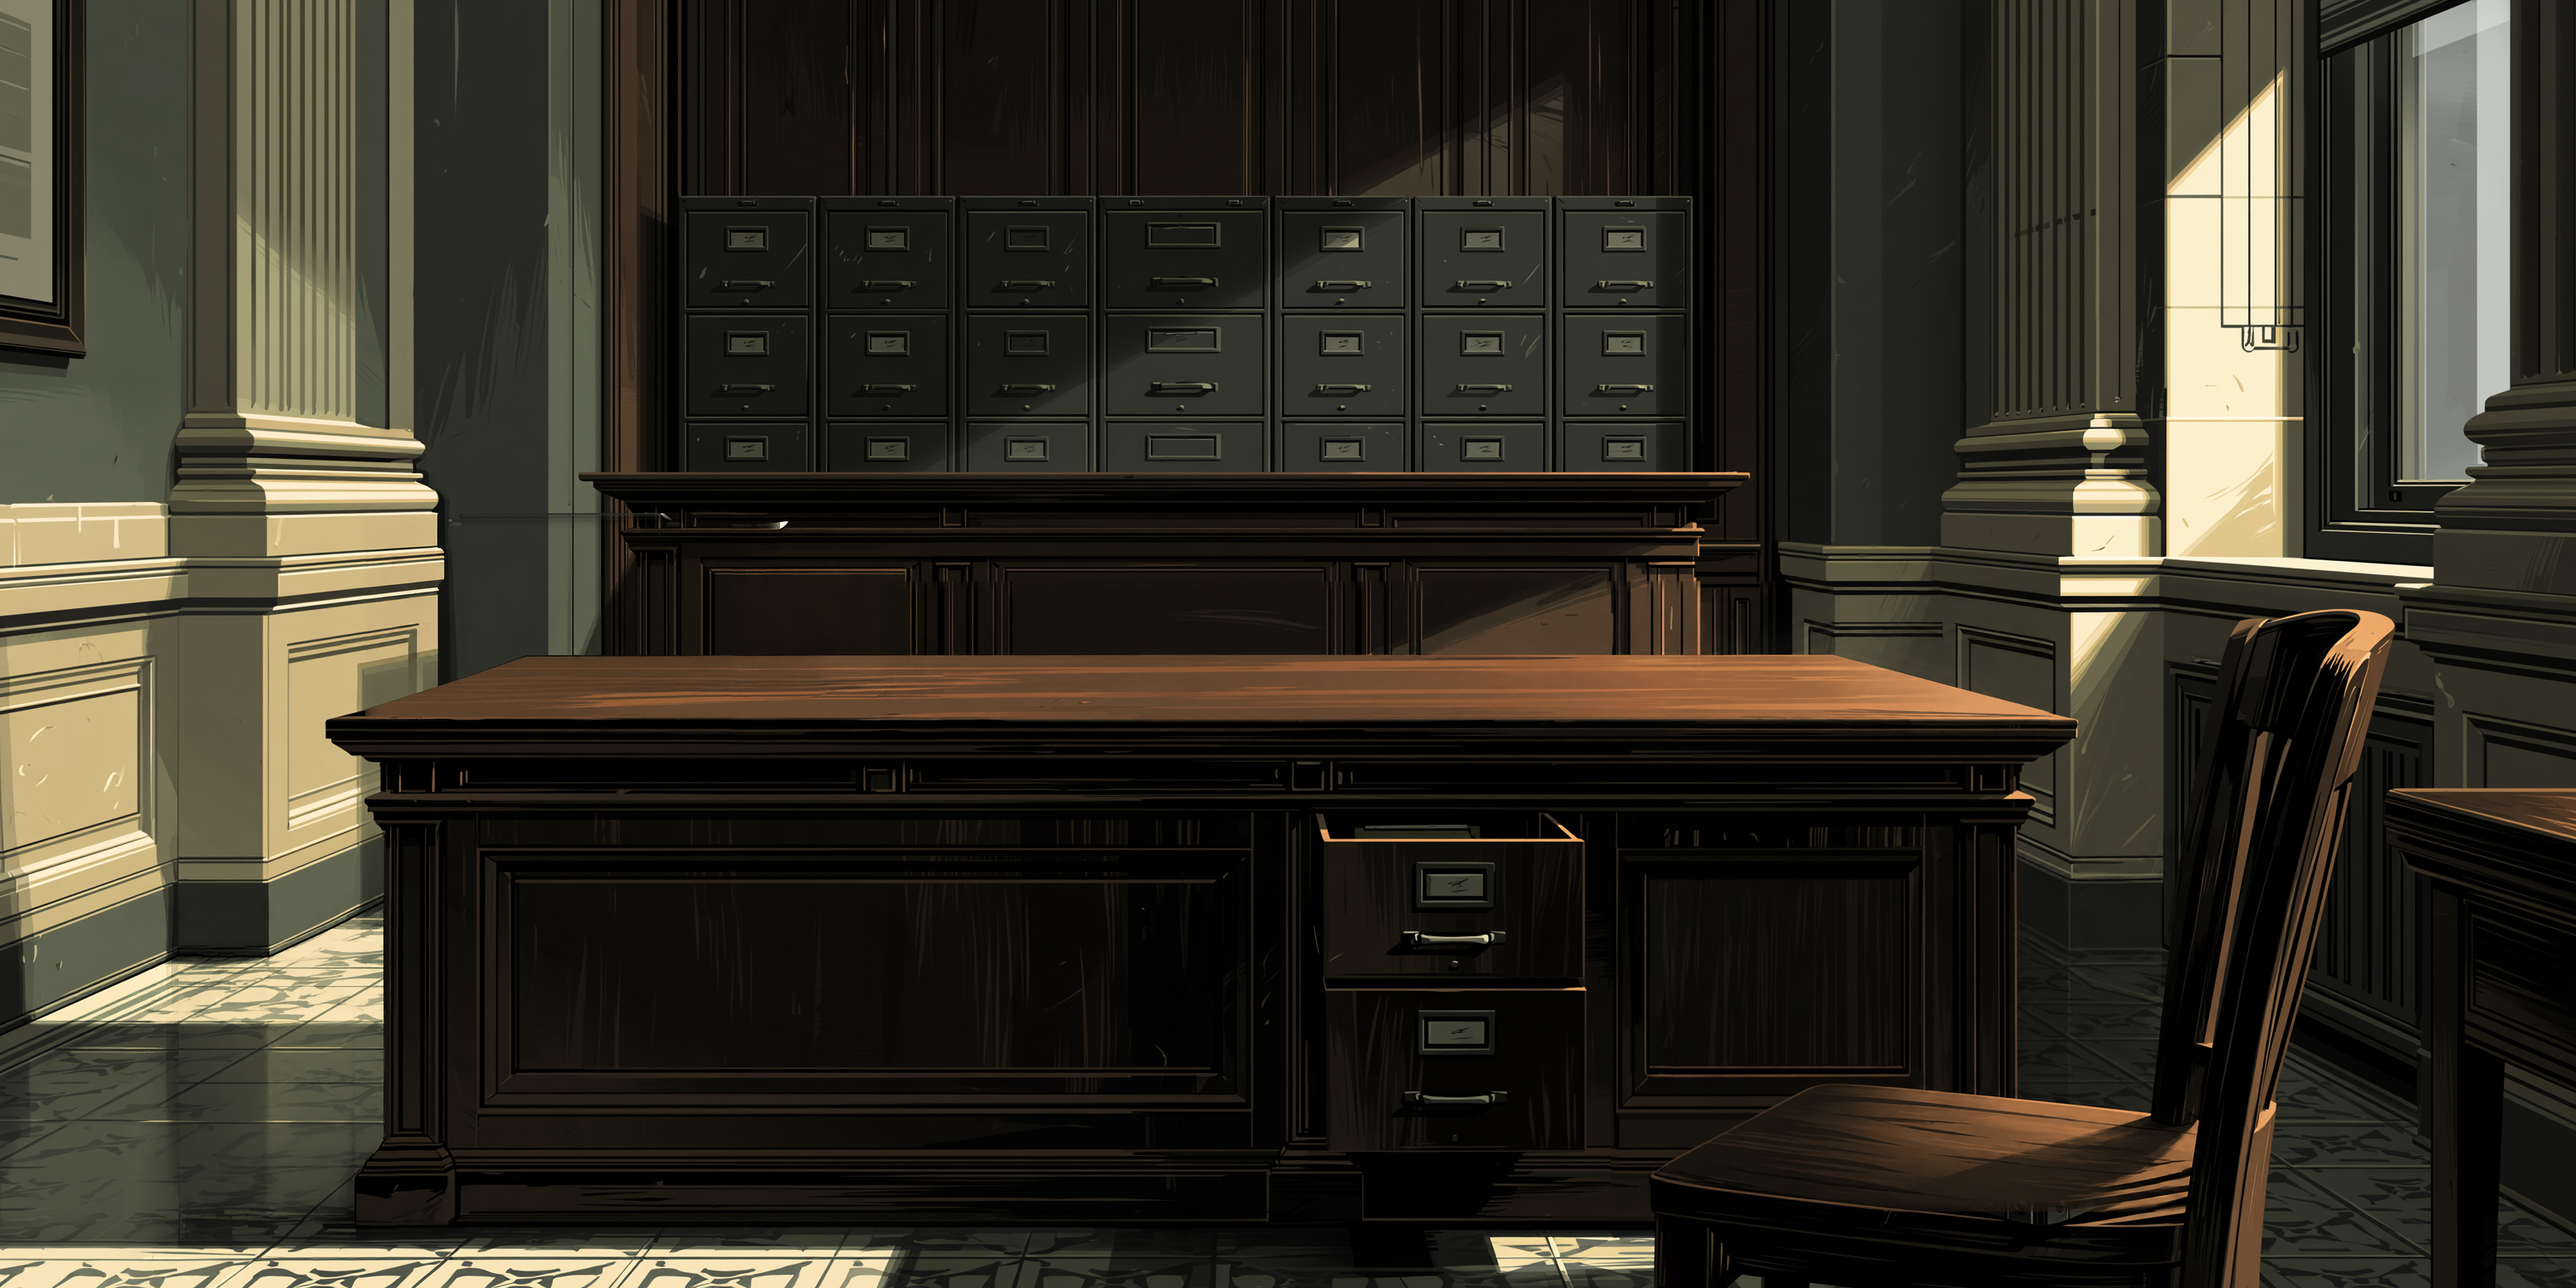
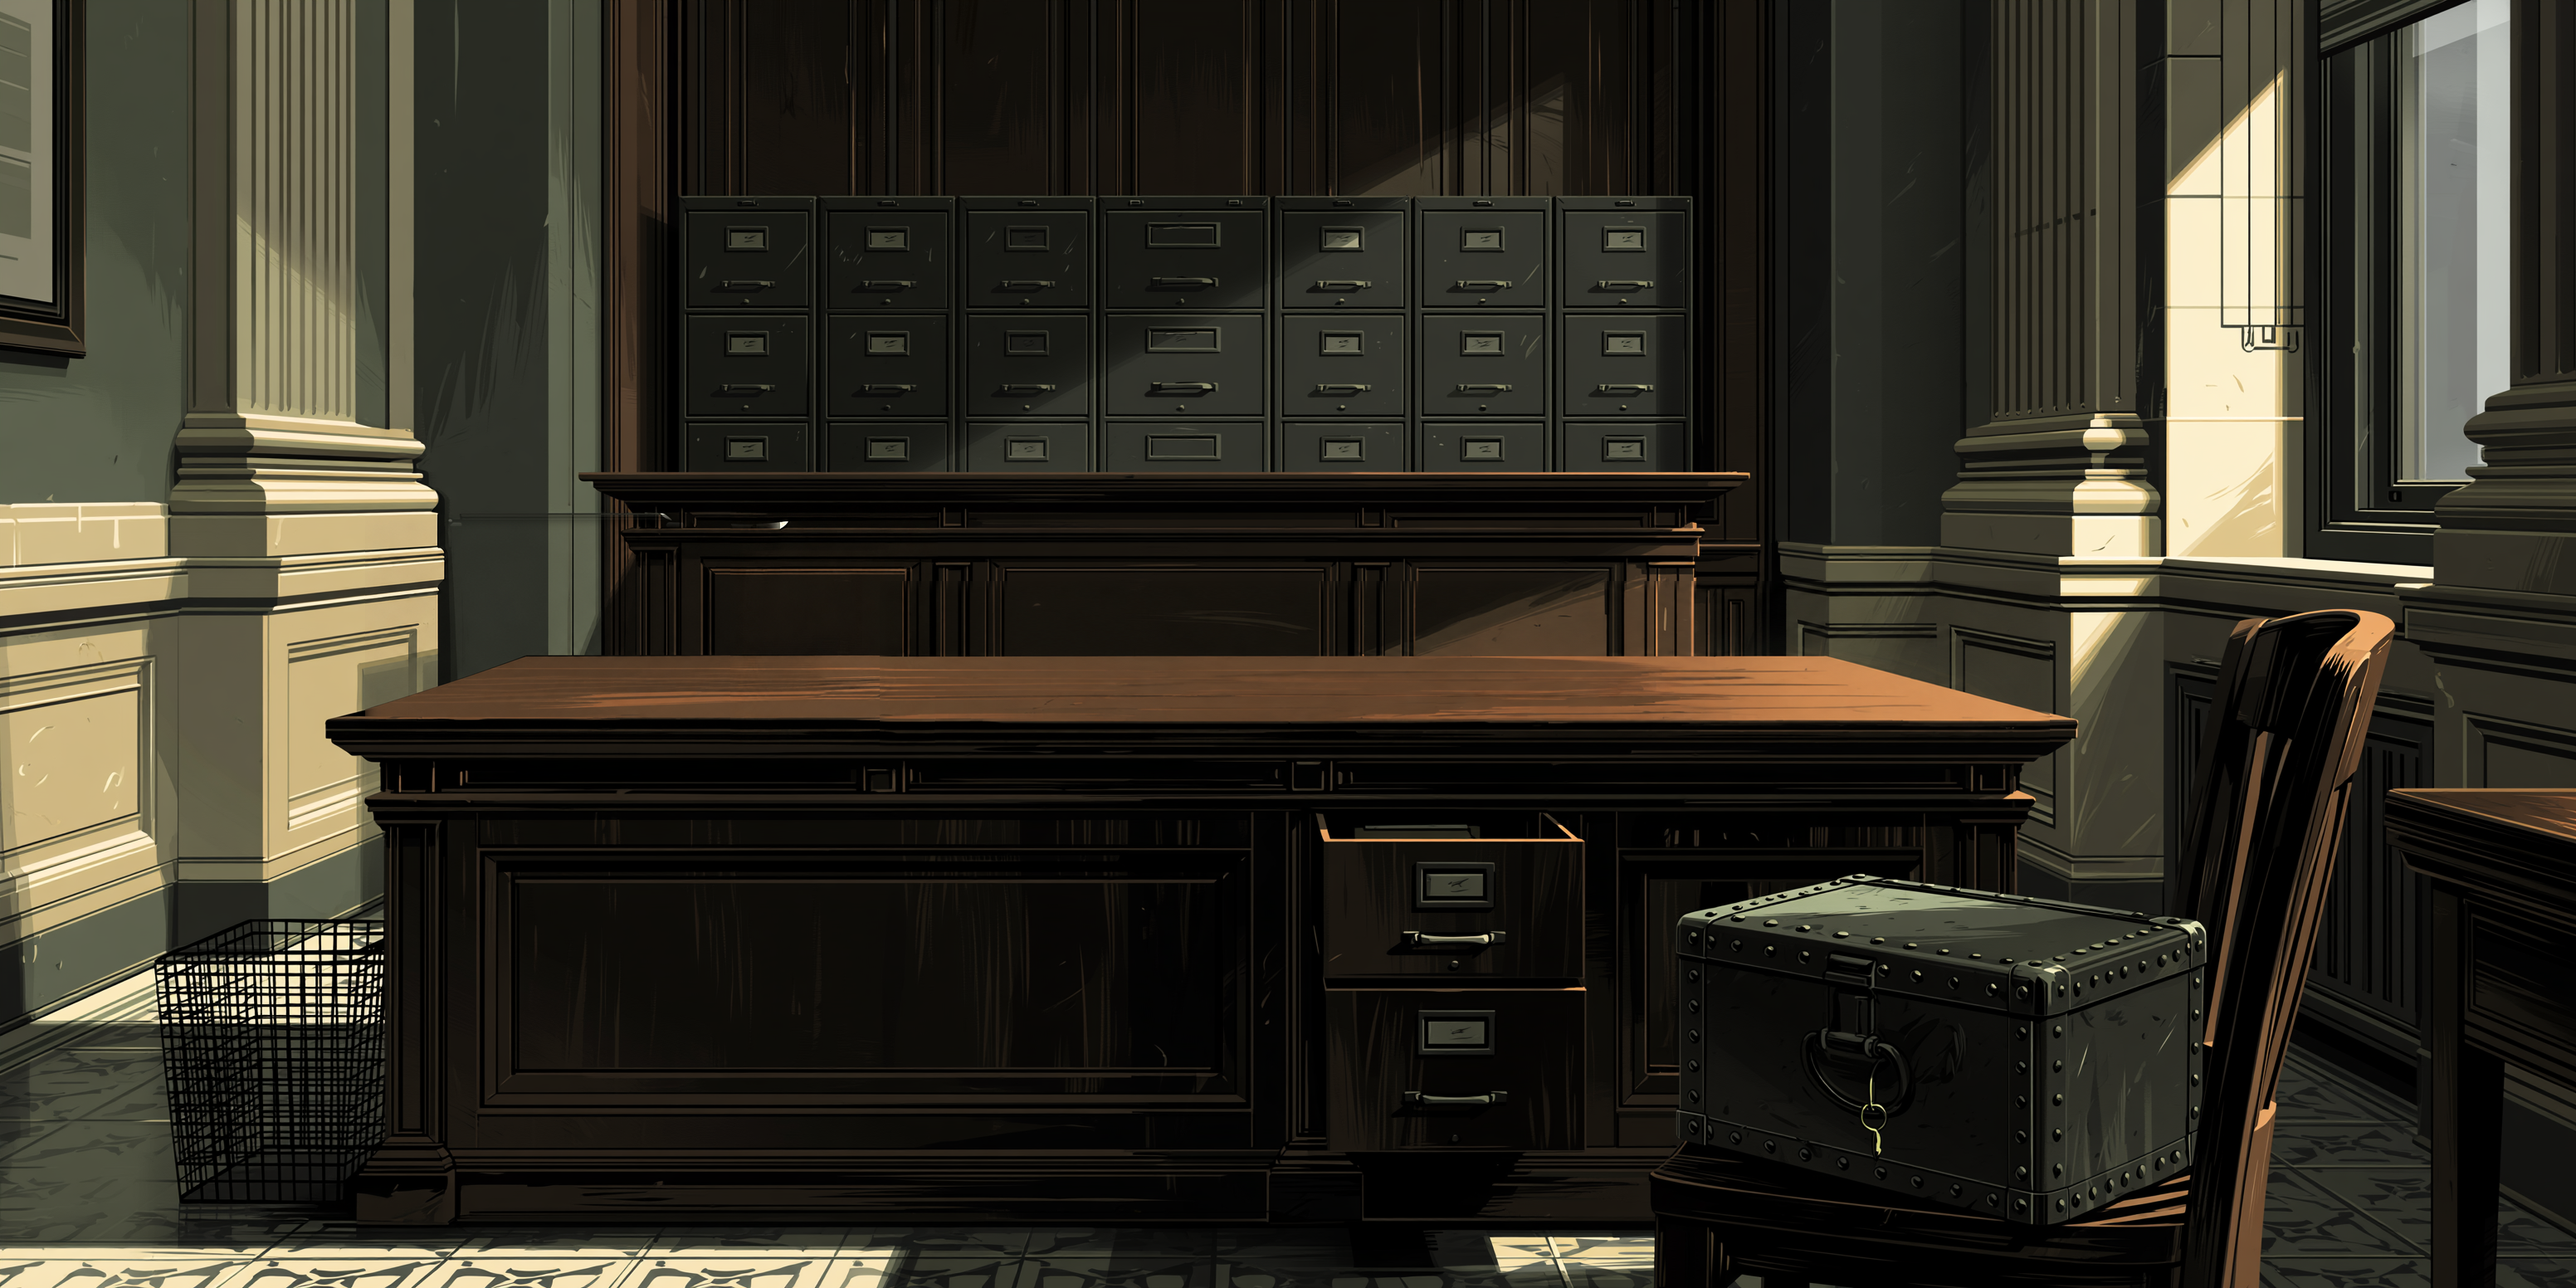
fix(art): recompose Harrison desktop cleanup

diff --git a/.codex/skills/ndc-coordinate-image-edit/SKILL.md b/.codex/skills/ndc-coordinate-image-edit/SKILL.md
@@ -13,6 +13,7 @@ Use the image model for appearance only. Use deterministic local code for crop g
 - Treat rectangles as half-open: `[left, right)` and `[top, bottom)`.
 - Record whether coordinates use a top-left or bottom-left origin; never infer silently when the user supplied coordinates.
 - The AI-generated image never determines final size or final placement.
+- Plan the generation crop against the target model's legal canvas constraints before generation. Never send an illegal crop and repair its aspect ratio by stretching or center-cropping the returned image.
 - Paste only through the approved hard mask. Feathering may occur inward, but alpha must be zero outside the hard mask.
 - The final image must match the source dimensions and mode, preserve source alpha when present, and be byte-identical outside the hard mask.
 - Save the composed result as PNG. Lossy JPEG/WebP output cannot satisfy byte-identical outside-mask verification.
@@ -29,9 +30,11 @@ Before running it, call `codex_app__load_workspace_dependencies` and use the ret
 
 1. Read the source with `view_image` before editing.
 2. Identify the smallest edit rectangle that contains every pixel allowed to change.
-3. Add enough unchanged context for the model and registration. Prefer padding over a second localization algorithm.
+3. Add enough unchanged context for the model and registration, then expand the crop outward to the smallest legal generation canvas. For `gpt-image-2`, the crop width and height must both be multiples of 16, neither edge may exceed 3840 px, the long-edge-to-short-edge ratio must not exceed 3:1, and total pixels must be between 655,360 and 8,294,400. Prefer extending the crop into real source pixels; shift the crop within the source bounds when necessary. Use synthetic padding only when the source cannot supply a legal canvas, record the exact padding and target-to-canvas mapping, and never resize the authorized target region.
 4. If the user supplied a screenshot rather than coordinates, visually match it once, export one proposed crop, and verify it. Do not enter open-ended template-matching or FFT design loops.
 5. State the source path, coordinate origin, edit rectangle, context crop, preserved elements, and intended change in the confirmation example.
+
+Example: a `1730x520` target is wider than 3:1 and is not a legal `gpt-image-2` canvas. When source bounds permit, expand it with real surrounding pixels to `1744x592` instead: both edges are multiples of 16, the aspect ratio is about 2.95:1, and the target itself remains unscaled.
 
 Prepare a job:
 
@@ -51,12 +54,14 @@ Inspect `source_crop.png`, `hard_mask.png`, and `manifest.json` before generatio
 ### 2. Generate exactly one confirmed patch
 
 - Use the built-in `image_gen` tool by default and pass `source_crop.png` through `referenced_image_paths`. Do not use `num_last_images_to_include` when the crop has a local path.
+- When the generation surface exposes an output `size`, request the exact legal crop dimensions. If it does not expose `size`, explicitly request the crop's aspect ratio and framing, then validate the returned canvas before composition.
 - State that the input is the exact edit crop, list the requested change, repeat every invariant, and require the same framing and camera.
 - Ask the model to return the full edited crop, not an isolated object.
 - Make one generation call per confirmed iteration.
 - Image generation can take minutes. Announce the call, allow the long-running tool window, and wait for its completion instead of launching competing recovery work.
 - When the tool completes, use only its local `savedPath`. Never print, copy into prose, re-serialize, or inspect its Base64 payload.
 - Immediately copy the selected generated file into the job directory as `generated.png`. Do not leave a project asset only under `$CODEX_HOME/generated_images`.
+- Reject a returned patch whose aspect ratio differs from the prepared crop. Do not stretch it or center-crop it into compliance. A proportionally larger or smaller patch may be uniformly resampled only when its aspect ratio matches the prepared crop and the coordinate mapping remains exact; record that normalization in the manifest.
 - Do not write or redesign post-processing code after generation returns.
 
 Prompt skeleton:
